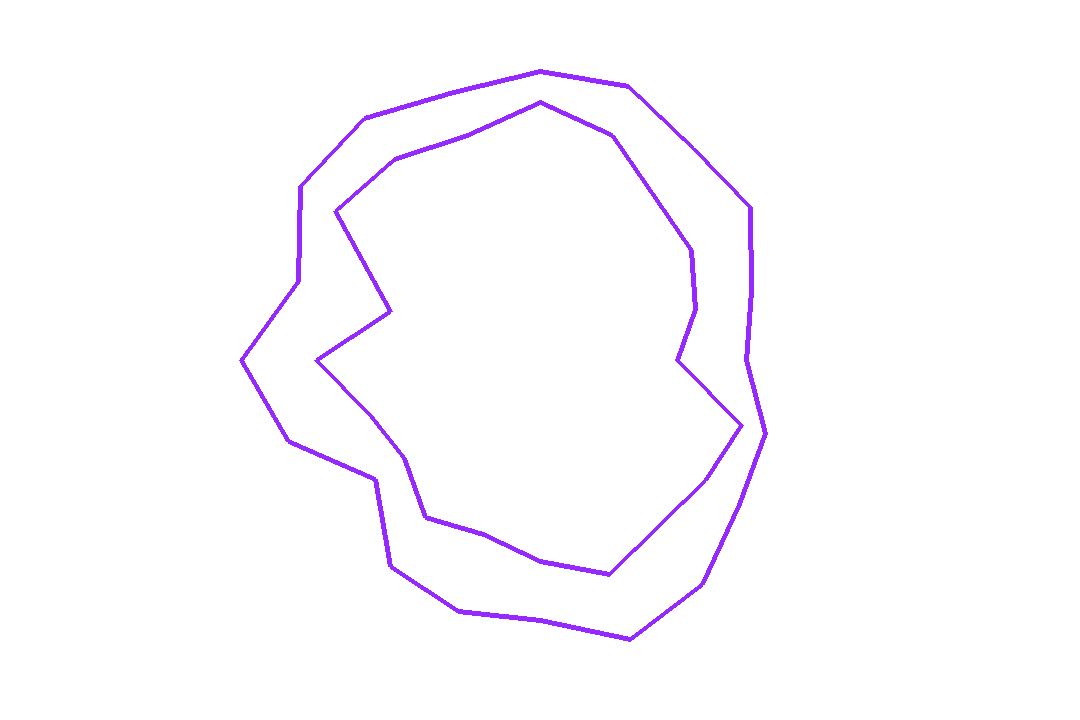
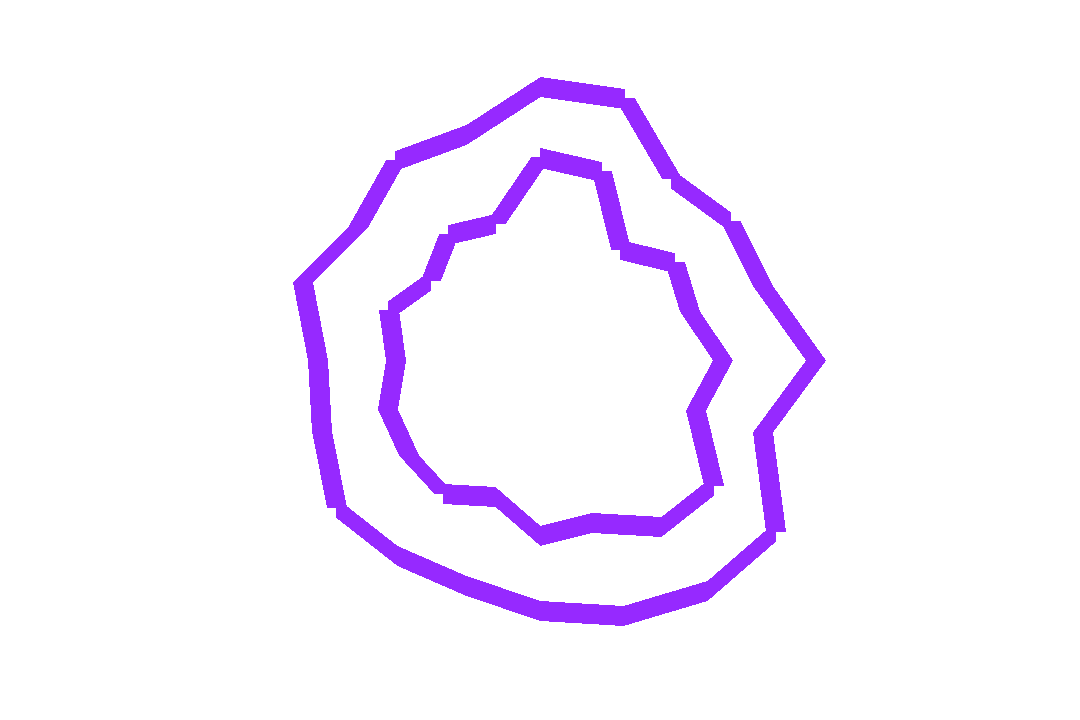
wider wall

diff --git a/html/environment.html b/html/environment.html
@@ -7,7 +7,7 @@
 <title>environment API documentation</title>
 <meta name="description" content="Description: this program implement a environment for the car game.
 Date: 2022-06-10 15:50:52
-LastEditTime: 2022-06-12 20:25:47" />
+LastEditTime: 2022-06-13 17:14:16" />
 <link rel="preload stylesheet" as="style" href="https://cdnjs.cloudflare.com/ajax/libs/10up-sanitize.css/11.0.1/sanitize.min.css" integrity="sha256-PK9q560IAAa6WVRRh76LtCaI8pjTJ2z11v0miyNNjrs=" crossorigin>
 <link rel="preload stylesheet" as="style" href="https://cdnjs.cloudflare.com/ajax/libs/10up-sanitize.css/11.0.1/typography.min.css" integrity="sha256-7l/o7C8jubJiy74VsKTidCy1yBkRtiUGbVkYBylBqUg=" crossorigin>
 <link rel="stylesheet preload" as="style" href="https://cdnjs.cloudflare.com/ajax/libs/highlight.js/10.1.1/styles/github.min.css" crossorigin>
@@ -26,7 +26,7 @@ LastEditTime: 2022-06-12 20:25:47" />
 <section id="section-intro">
 <p>Description: this program implement a environment for the car game.
 Date: 2022-06-10 15:50:52
-LastEditTime: 2022-06-12 20:25:47</p>
+LastEditTime: 2022-06-13 17:14:16</p>
 <details class="source">
 <summary>
 <span>Expand source code</span>
@@ -34,7 +34,7 @@ LastEditTime: 2022-06-12 20:25:47</p>
 <pre><code class="python">&#39;&#39;&#39;
 Description: this program implement a environment for the car game.
 Date: 2022-06-10 15:50:52
-LastEditTime: 2022-06-12 20:25:47
+LastEditTime: 2022-06-13 17:14:16
 &#39;&#39;&#39;
 
 # import necessary libraries
@@ -78,7 +78,7 @@ class Environment:
             seed (int, optional): 作为环境生成时的随机种子，若为None则随机. Defaults to None.
         
         Raises:
-            ValueError: 当return_mode不为&#34;distances&#34;或&#34;frames&#34;时，抛出该异常
+            ValueError: 当return_mode不为&#34;distances&#34;或&#34;frames&#34;或&#34;direction and distances&#34;时，抛出该异常
         &#34;&#34;&#34;
         # copy parameters
         if return_mode == &#34;distances&#34;:
@@ -153,7 +153,7 @@ class Environment:
             speed_vec=car.get_speed_vec()
             correct_vec=calculate_correct_vec(540,360,car.x,car.y)
             projection=calculate_projection(speed_vec,correct_vec)
-            print(speed_vec,correct_vec,projection)
+            # print(speed_vec,correct_vec,projection)
             cur_reward=REWARD_ONE_LAP/(2*np.pi)*cur_d_angle
             # test whether the agent finish the game
             if cur_angle&gt;2*np.pi:
@@ -348,7 +348,7 @@ if __name__ == &#34;__main__&#34;:
             seed (int, optional): 作为环境生成时的随机种子，若为None则随机. Defaults to None.
         
         Raises:
-            ValueError: 当return_mode不为&#34;distances&#34;或&#34;frames&#34;时，抛出该异常
+            ValueError: 当return_mode不为&#34;distances&#34;或&#34;frames&#34;或&#34;direction and distances&#34;时，抛出该异常
         &#34;&#34;&#34;
         # copy parameters
         if return_mode == &#34;distances&#34;:
@@ -423,7 +423,7 @@ if __name__ == &#34;__main__&#34;:
             speed_vec=car.get_speed_vec()
             correct_vec=calculate_correct_vec(540,360,car.x,car.y)
             projection=calculate_projection(speed_vec,correct_vec)
-            print(speed_vec,correct_vec,projection)
+            # print(speed_vec,correct_vec,projection)
             cur_reward=REWARD_ONE_LAP/(2*np.pi)*cur_d_angle
             # test whether the agent finish the game
             if cur_angle&gt;2*np.pi:
@@ -599,7 +599,7 @@ if __name__ == &#34;__main__&#34;:
 <h2 id="raises">Raises</h2>
 <dl>
 <dt><code>ValueError</code></dt>
-<dd>当return_mode不为"distances"或"frames"时，抛出该异常</dd>
+<dd>当return_mode不为"distances"或"frames"或"direction and distances"时，抛出该异常</dd>
 </dl></div>
 <details class="source">
 <summary>
@@ -615,7 +615,7 @@ if __name__ == &#34;__main__&#34;:
         seed (int, optional): 作为环境生成时的随机种子，若为None则随机. Defaults to None.
     
     Raises:
-        ValueError: 当return_mode不为&#34;distances&#34;或&#34;frames&#34;时，抛出该异常
+        ValueError: 当return_mode不为&#34;distances&#34;或&#34;frames&#34;或&#34;direction and distances&#34;时，抛出该异常
     &#34;&#34;&#34;
     # copy parameters
     if return_mode == &#34;distances&#34;:
@@ -704,7 +704,7 @@ list[list[list[int]]]</code></dt>
         speed_vec=car.get_speed_vec()
         correct_vec=calculate_correct_vec(540,360,car.x,car.y)
         projection=calculate_projection(speed_vec,correct_vec)
-        print(speed_vec,correct_vec,projection)
+        # print(speed_vec,correct_vec,projection)
         cur_reward=REWARD_ONE_LAP/(2*np.pi)*cur_d_angle
         # test whether the agent finish the game
         if cur_angle&gt;2*np.pi:

diff --git a/map_generator.py b/map_generator.py
@@ -1,7 +1,7 @@
 '''
 Description: this file use pygame to generate map in png format
 Date: 2022-06-09 17:05:24
-LastEditTime: 2022-06-10 16:57:53
+LastEditTime: 2022-06-14 10:51:32
 '''
 
 import random
@@ -12,6 +12,7 @@ MIDDLE_POINT=(540,360)
 WINDOW_SIZE=(1080,720)
 PADDING=10
 BOUNDARY_COLOR=(150,41,255)
+WALL_WIDTH=20
 
 def is_out(pointx,pointy):
     """
@@ -45,7 +46,7 @@ def generate_random_points(cnt,dist_low,dist_high,last_dist_high=70):
             # generate outer points first
             px=MIDDLE_POINT[0]+dist*math.cos(angle)
             py=MIDDLE_POINT[1]+dist*math.sin(angle)
-            print(px,py)
+            # print(px,py)
             if not is_out(px,py):
                 break
         last_dist=dist
@@ -65,7 +66,7 @@ def generate_map(seed=None,points_cnt=20):
     screen = pygame.display.set_mode((1080, 720), flags=pygame.HIDDEN)
     screen.fill((255, 255, 255))
     # pygame.draw.circle(screen, (0, 0, 0), MIDDLE_POINT, 10)
-    point_list_outer,point_list_inner=generate_random_points(points_cnt,25,100)
+    point_list_outer,point_list_inner=generate_random_points(points_cnt,70,100)
     #draw all the points
     pygame.display.flip()
     # #draw the outer points
@@ -73,16 +74,16 @@ def generate_map(seed=None,points_cnt=20):
     #     pygame.draw.circle(screen, BOUNDARY_COLOR, point, 5)
     #draw the lines between the outer points
     for i in range(len(point_list_outer)-1):
-        pygame.draw.line(screen, BOUNDARY_COLOR, point_list_outer[i], point_list_outer[i+1], 5)
-    pygame.draw.line(screen, BOUNDARY_COLOR, point_list_outer[-1], point_list_outer[0], 5)
+        pygame.draw.line(screen, BOUNDARY_COLOR, point_list_outer[i], point_list_outer[i+1], WALL_WIDTH)
+    pygame.draw.line(screen, BOUNDARY_COLOR, point_list_outer[-1], point_list_outer[0], WALL_WIDTH)
     # #draw the inner points
     # for point in point_list_inner:
-    #     pygame.draw.circle(screen, BOUNDARY_COLOR, point, 5)
+    #     pygame.draw.circle(screen, BOUNDARY_COLOR, point, WALL_WIDTH)
     
     #draw the lines between the inner points
     for i in range(len(point_list_inner)-1):
-        pygame.draw.line(screen, BOUNDARY_COLOR, point_list_inner[i], point_list_inner[i+1], 5)
-    pygame.draw.line(screen, BOUNDARY_COLOR, point_list_inner[-1], point_list_inner[0], 5)
+        pygame.draw.line(screen, BOUNDARY_COLOR, point_list_inner[i], point_list_inner[i+1], WALL_WIDTH)
+    pygame.draw.line(screen, BOUNDARY_COLOR, point_list_inner[-1], point_list_inner[0], WALL_WIDTH)
     
     pygame.display.flip()
     #output the map

diff --git a/environment.py b/environment.py
@@ -1,7 +1,7 @@
 '''
 Description: this program implement a environment for the car game.
 Date: 2022-06-10 15:50:52
-LastEditTime: 2022-06-13 17:14:16
+LastEditTime: 2022-06-14 10:56:24
 '''
 
 # import necessary libraries
@@ -101,6 +101,10 @@ class Environment:
                 list[float]: state: 车辆5个方向离墙体的的距离
             for "frames" return_mode:
                 list[list[list[int]]]: color array: with the shape of (1080,720,3): 帧颜色矩阵, 范围[0,255]
+            for "direction and distances" return_mode:
+                float: speed: 车辆的运行速度
+                float: projection: 车辆的运行速度在正确方向上的投影
+                list[float]: state: 车辆5个方向离墙体的的距离
             float: reward: 当前行动的奖励
             bool: done: 是否停止运行
             str: info: 当前状态的信息
@@ -114,6 +118,7 @@ class Environment:
         #update the ctr values
         self.cur_step+=1
         info=""
+        projection=0
         #update the car
         for car in self.car_list:
             state_dist,cur_d_angle,cur_angle=car.update_by_step(self.screen,action)
@@ -121,7 +126,7 @@ class Environment:
             correct_vec=calculate_correct_vec(540,360,car.x,car.y)
             projection=calculate_projection(speed_vec,correct_vec)
             # print(speed_vec,correct_vec,projection)
-            cur_reward=REWARD_ONE_LAP/(2*np.pi)*cur_d_angle
+            cur_reward=REWARD_ONE_LAP/(2*np.pi)*cur_d_angle-1
             # test whether the agent finish the game
             if cur_angle>2*np.pi:
                 self.running=False
@@ -152,9 +157,10 @@ class Environment:
         pygame.display.flip()
         if self.return_mode == "distances":
             return self.car_list[0].speed,state_dist,cur_reward,not(self.running),info
-        else:
+        elif self.return_mode == "frames":
             return self.get_cur_frame(),cur_reward,not(self.running),info
-    
+        else:
+            return self.car_list[0].speed,projection,cur_reward,not(self.running),info
     def get_cur_frame(self):
         """该函数用以获取当前帧的颜色矩阵
         """

diff --git a/game_main.py b/game_main.py
@@ -1,7 +1,7 @@
 '''
 Description: 
 Date: 2022-06-08 21:21:14
-LastEditTime: 2022-06-12 20:03:27
+LastEditTime: 2022-06-14 10:43:06
 '''
 """
 Description: this program use the pygame to implement a car game
@@ -28,8 +28,8 @@ class CarGame:
         # load the map
         self.background_img, self.start_point = load_map('./maps/', 'map')
         self.car_list = []
-        self.car_list.append(Car(self.car_image, self.start_point, np.pi / 2, False))
-        self.car_list[0].bind_auto_func(simple_auto)
+        self.car_list.append(Car(self.car_image, self.start_point, np.pi / 2, True))
+        self.car_list[0].bind_auto_func(go_out_test_auto)
         # self.car_list.append(Car(self.car_image, self.start_point,np.pi/3,True))
         # self.car_list[1].bind_auto_func(simple_auto)
         # self.car_list.append(Car(self.car_image, self.start_point,np.pi*3/4,True))

diff --git a/common.py b/common.py
@@ -1,7 +1,7 @@
 '''
 Description: this file defines some common data and functions
 Date: 2022-06-09 16:45:38
-LastEditTime: 2022-06-12 20:25:23
+LastEditTime: 2022-06-14 10:57:00
 '''
 
 from locale import atoi
@@ -33,7 +33,7 @@ STARTING_POINT = (200,600)
 
 #about the reward
 REWARD_ONE_LAP=1000 # reward if the car can finish one lap
-DEAD_SCORE=-500 # the dead score of the car
+DEAD_SCORE=0 # the dead score of the car
 
 
 
@@ -141,6 +141,9 @@ def simple_auto(speed:float,detect_dist:List)->Tuple[float,float,float,float]:
         decision[3]=ANGLE_STEP
         decision[2]=0
     return decision
+
+def go_out_test_auto(speed:float,detect_dist:List)->Tuple[float,float,float,float]:
+    return [1,0,0,0]
 
 def calculate_correct_vec(midx,midy,carx,cary):
     """

diff --git a/car.py b/car.py
@@ -195,7 +195,7 @@ class Car:
         d_angle=self.update_angle()
         self.score+=d_angle*REWARD_ONE_LAP/(2*math.pi)
         # print(self.last_angle)
-        print(self.score)
+        # print(self.score)
 
     def get_score(self):
         return self.score
